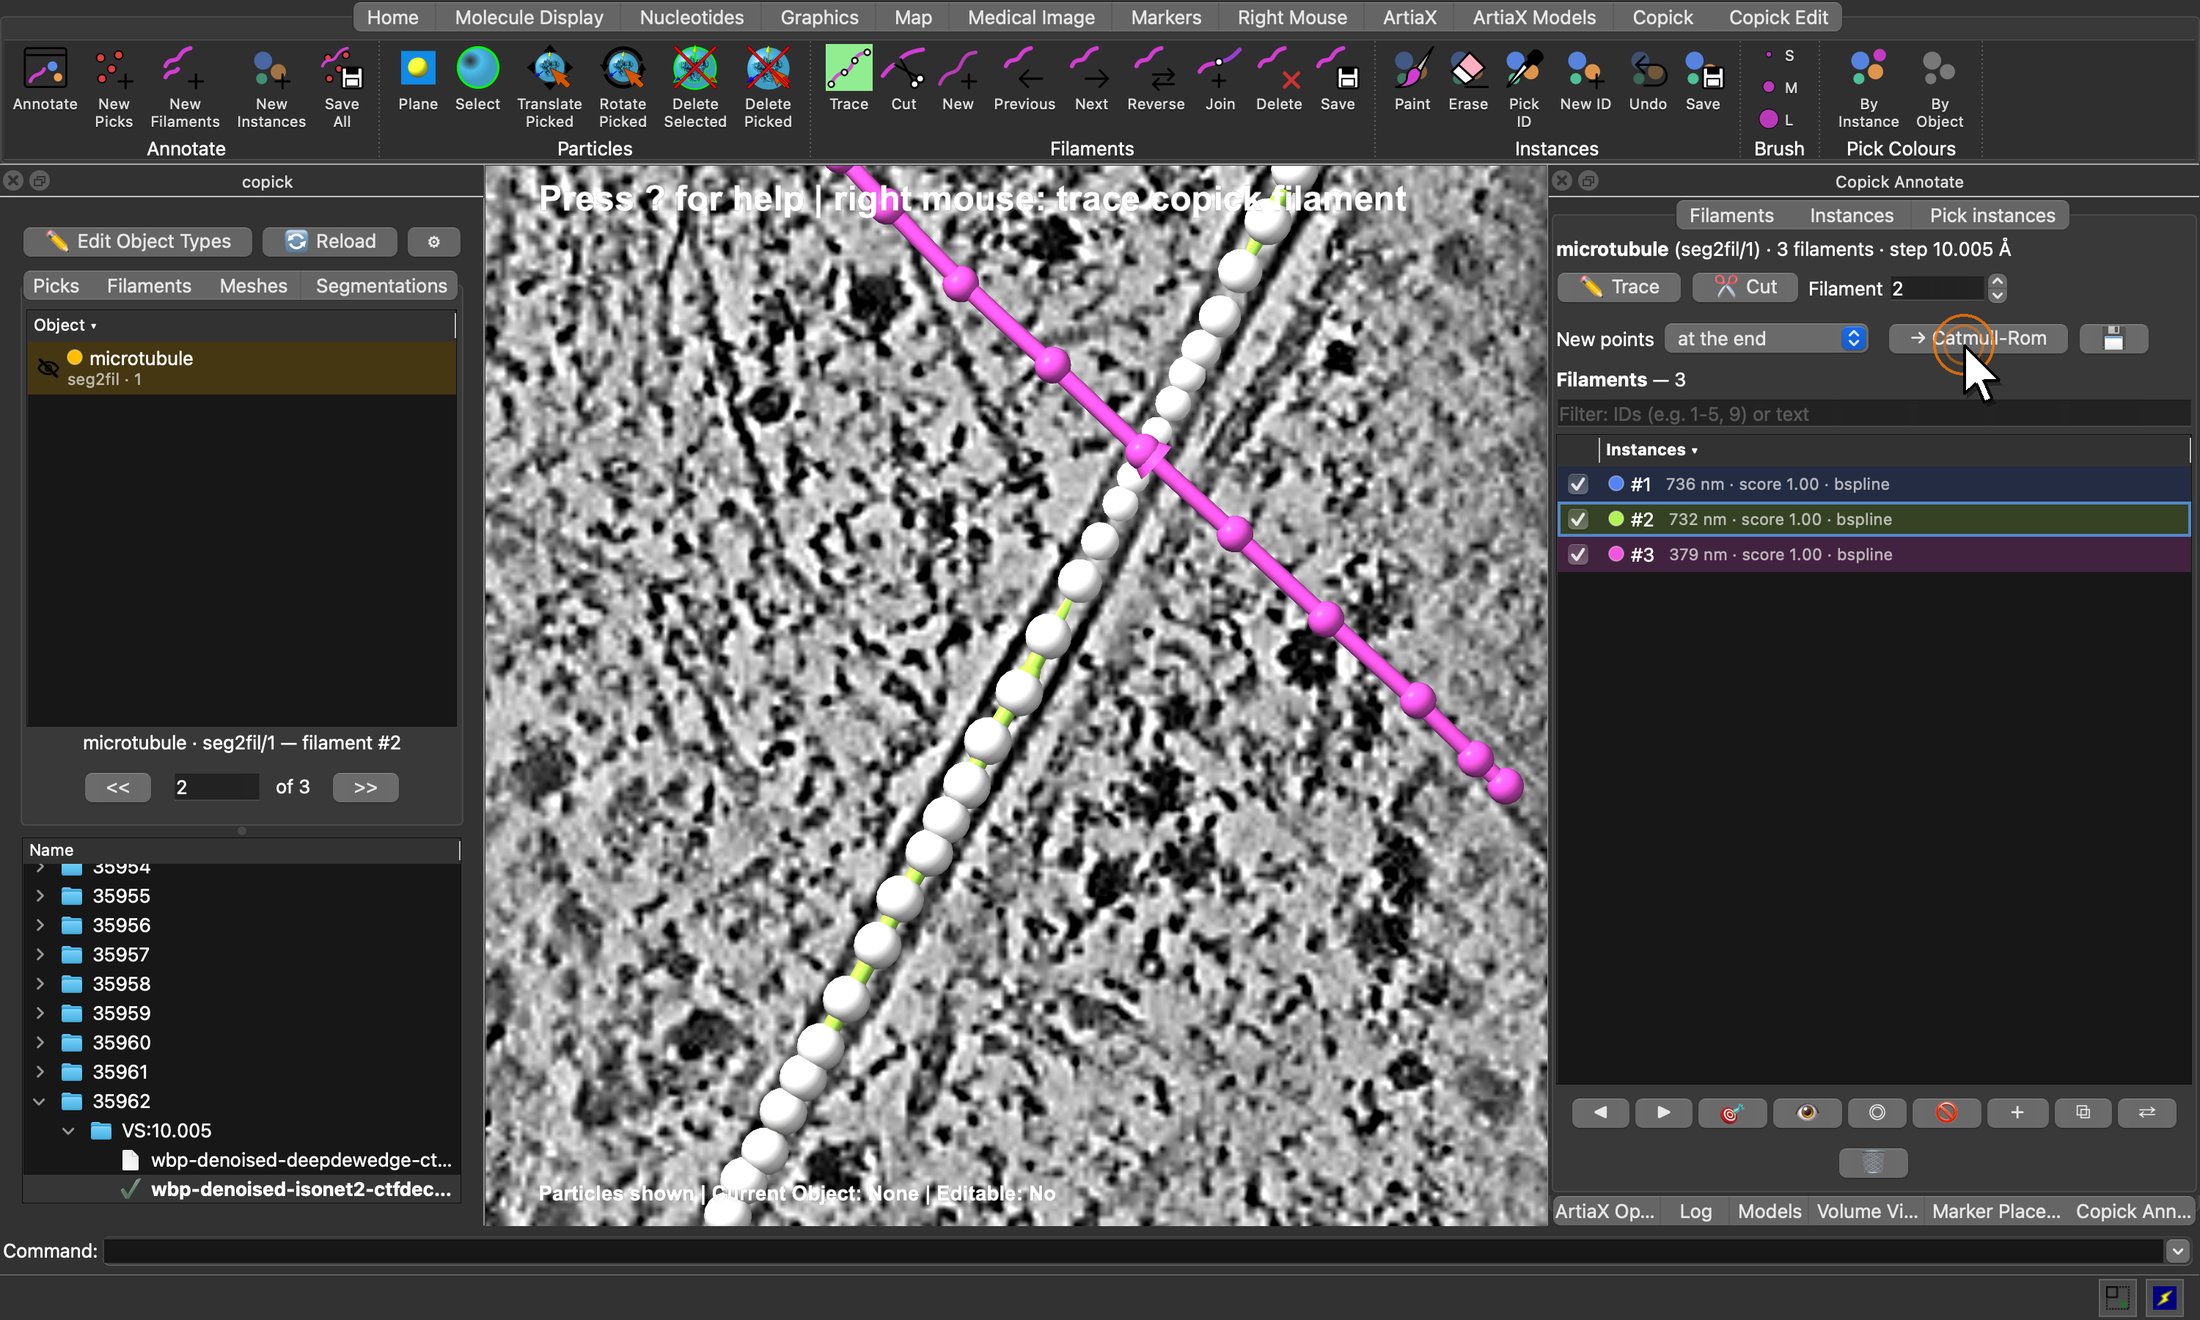
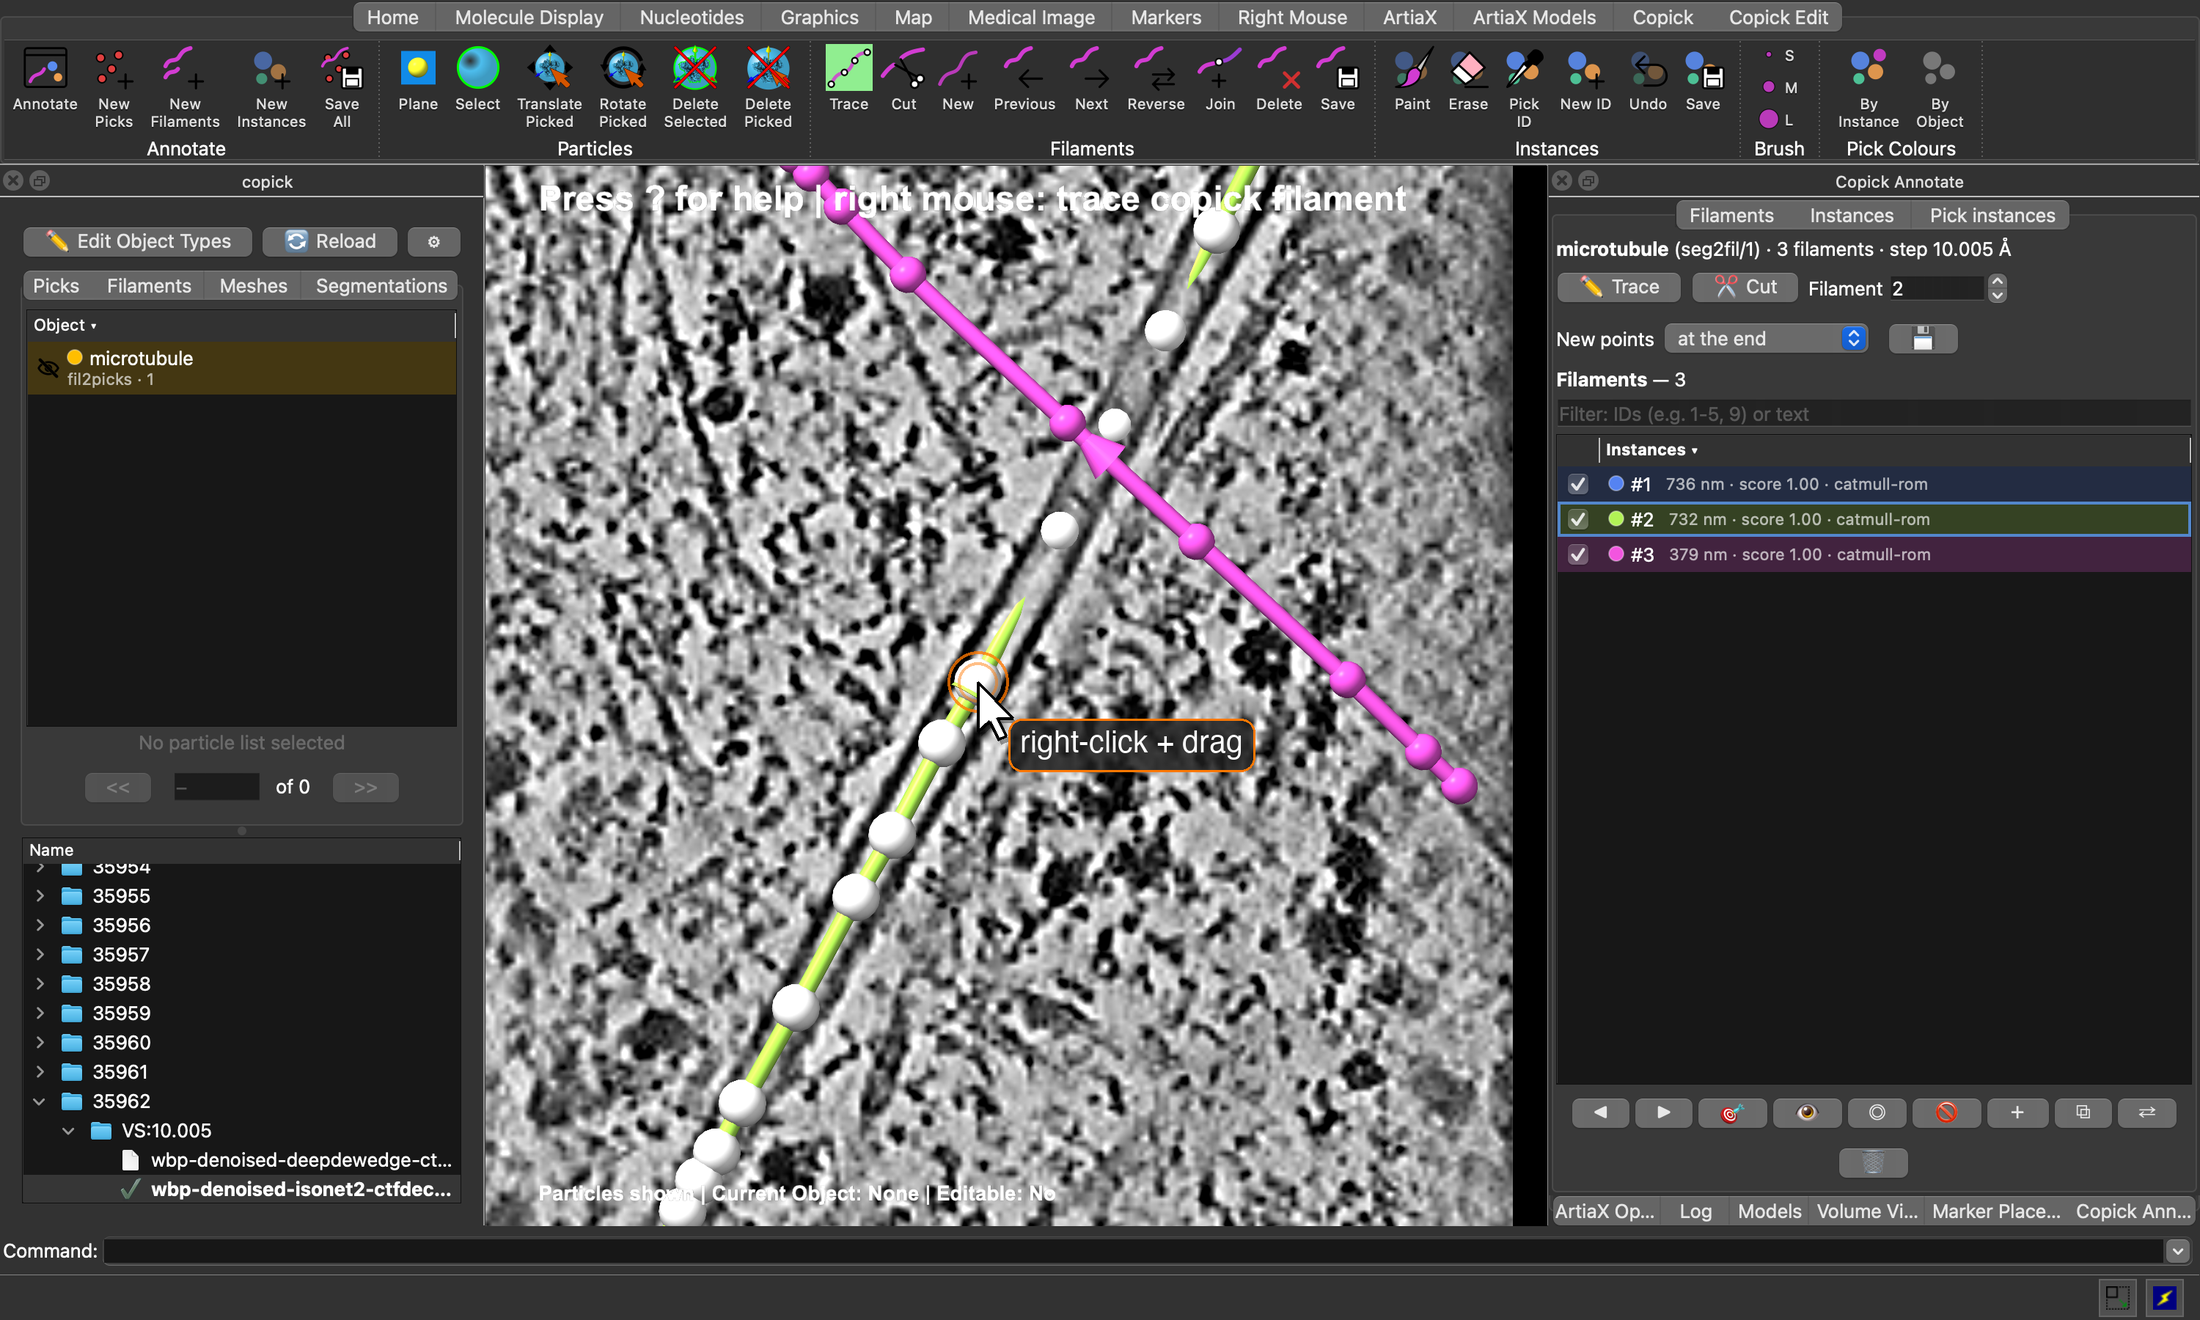
fix: Describe seg2fil's editable Catmull-Rom traces in the filament tutorials
seg2fil now stores Catmull-Rom curves by default (copick-utils >= 1.10), so the tutorials no longer ask readers to
convert traced filaments before editing them; the conversion is described for B-spline traces only. The ChimeraX
curation screenshot shows the new traces.

diff --git a/docs/examples/tutorials/microtubule_tracing.md b/docs/examples/tutorials/microtubule_tracing.md
@@ -38,12 +38,12 @@ easymode's 10 Å working resolution).
 
 ### Step 0: Prerequisites
 
-You need copick ≥ 1.28 (filament objects and the Filaments entity), copick-utils ≥ 1.9 (the tracing commands) and
+You need copick ≥ 1.28 (filament objects and the Filaments entity), copick-utils ≥ 1.10 (the tracing commands) and
 copick-easymode. easymode itself is installed from GitHub with `--no-deps`; see the
 [easymode tutorial](easymode.md#step-0-prerequisites) for why.
 
 ```bash
-pip install "copick[all]>=1.28" "copick-utils>=1.9"
+pip install "copick[all]>=1.28" "copick-utils>=1.10"
 pip install git+https://github.com/copick/copick-easymode.git
 pip install --no-deps git+https://github.com/mgflast/easymode.git
 ```
@@ -132,8 +132,8 @@ copick convert seg2fil -c config.json \
 
 For each run, this writes the filament set `microtubule:seg2fil/1` and, through `--instances`, an instance
 segmentation of the traced microtubules whose voxel values are the filament IDs. `--min-length 1000` rejects pieces
-shorter than 100 nm (lengths are in Å by default). Filaments are numbered 1, 2, … by length, longest first, and every
-filament is stored as an exact B-spline that editors can reopen.
+shorter than 100 nm (lengths are in Å by default). Filaments are numbered 1, 2, … by length, longest first. Each is
+stored as an editable Catmull-Rom curve through its fitted spline, within half a voxel of the fit.
 
 ??? note "How tracing works"
     Each connected component of the mask is skeletonized and split into branches between ends and junctions. Before
@@ -143,7 +143,7 @@ filament is stored as an exact B-spline that editors can reopen.
     45° by default) are joined, so two crossing microtubules stay two filaments. Free ends are extended to the edge of
     the segmentation, since thinning shortens each end by about one radius. Finally, filaments that are shorter than
     `--min-length`, shorter than `--min-aspect` label diameters (blobs) or thinner than `--min-radius` (slivers of
-    noise, a third of the object's radius by default) are rejected, and a smoothing B-spline is fitted to the rest.
+    noise, a third of the object's radius by default) are rejected, and a smoothing B-spline is fitted to the rest and stored as a Catmull-Rom curve through it.
 
 <div class="side-by-side" markdown>
 <div markdown>
@@ -170,6 +170,8 @@ minutes on a laptop: 83 microtubules with a total length of 33 µm, after reject
       object's radius or the label's own thickness. `copick process seg-stats --skeleton` reports each component's
       skeleton length and label radius, which helps to choose them for a new dataset.
     - `--length-unit voxel` switches all lengths to voxels.
+    - `--curve bspline` stores the exact B-spline fit instead of a Catmull-Rom curve through it. Editors can move a
+      B-spline's control points but not add or remove them until it is converted.
     - An instance segmentation can be traced too (append `?instance=true` to `-i`); each instance is traced on its
       own and keeps its ID. Use this to re-trace a segmentation you have corrected by hand.
 
@@ -186,10 +188,9 @@ points towards the plus end, or trace microtubules the network missed:
 - [Tracing filaments in ChimeraX](chimerax_filaments.md)
 - [Tracing filaments in napari](napari_filaments.md)
 
-Traced filaments are B-splines with many control points. To add or remove points by hand, first convert a filament
-to an editable Catmull-Rom curve (**→ Catmull-Rom** in ChimeraX, **Convert to Catmull-Rom** in napari); moving its
-points works either way. Save the curated set under a new session, for example `microtubule:bob/curated`, so the
-automatic result stays untouched.
+The traced filaments are Catmull-Rom curves, so you can add, move and remove their control points right away, just as
+for a filament traced by hand. Save the curated set under a new session, for example `microtubule:bob/curated`, so
+the automatic result stays untouched.
 
 ### Step 5: Sample picks along the filaments
 
@@ -234,7 +235,7 @@ Use `--filament-columns off` to leave them out, or `on` to add them for any obje
 ??? example "Full pipeline (copy/paste)"
     ```bash
     # 1. install
-    pip install "copick[all]>=1.28" "copick-utils>=1.9"
+    pip install "copick[all]>=1.28" "copick-utils>=1.10"
     pip install git+https://github.com/copick/copick-easymode.git
     pip install --no-deps git+https://github.com/mgflast/easymode.git
 

diff --git a/docs/examples/tutorials/chimerax_filaments.md b/docs/examples/tutorials/chimerax_filaments.md
@@ -180,14 +180,17 @@ its ID, for example every 82 Å (one tubulin dimer) for subtomogram averaging:
 ### Step 8: Curate automatic traces
 
 Filament sets from `copick convert seg2fil` open like any other: double-click `microtubule:seg2fil/1` in the
-**Filaments** tab and click it to make it active. Traced filaments are B-splines with many control points, which can
-be moved but not added or removed. To edit them freely, convert a filament with **→ Catmull-Rom** in the Annotate
-window. Cut and join work on B-splines directly and turn the pieces they produce into Catmull-Rom curves. Save the result under a new session so the automatic traces stay
-as they are.
+**Filaments** tab and click it to make it active. The traces are Catmull-Rom curves, so their control points can be
+added, moved and removed like those of a filament traced by hand, and cut and join work as above. Save the result under
+a new session so the automatic traces stay as they are.
+
+Filaments stored as B-splines (`seg2fil --curve bspline`, or traces from copick-utils 1.9) can be moved and cut but not
+edited point by point: convert one with **→ Catmull-Rom** in the Annotate window first.
 
 <figure markdown="span">
   ![Curating seg2fil traces](../../assets/chimerax_filaments/curate_seg2fil.png){ width="100%" }
-  <figcaption>The three filaments traced by <code>seg2fil</code> in run 35962, with filament #2 active.</figcaption>
+  <figcaption>The three filaments traced by <code>seg2fil</code> in run 35962, with filament #2 active: right-click and
+drag one of its control points to move it.</figcaption>
 </figure>
 
 ### Quick reference

diff --git a/docs/examples/tutorials/napari_filaments.md b/docs/examples/tutorials/napari_filaments.md
@@ -140,6 +140,9 @@ filaments** is ticked for sets opened from an editable file; untick it to keep a
 
 ### Curating automatic traces
 
-Filaments from `copick convert seg2fil` are B-splines with many control points, which can be moved but not added or
-removed. To edit one freely, click **Convert to Catmull-Rom** in the tracer panel; join works on B-splines directly.
-Save the curated set under a new session so the automatic traces stay as they are.
+Filaments from `copick convert seg2fil` are Catmull-Rom curves, so their control points can be added, moved and
+removed like those of a filament traced by hand. Save the curated set under a new session so the automatic traces stay
+as they are.
+
+Filaments stored as B-splines (`seg2fil --curve bspline`, or traces from copick-utils 1.9) can be moved but not edited
+point by point: click **Convert to Catmull-Rom** in the tracer panel first.
